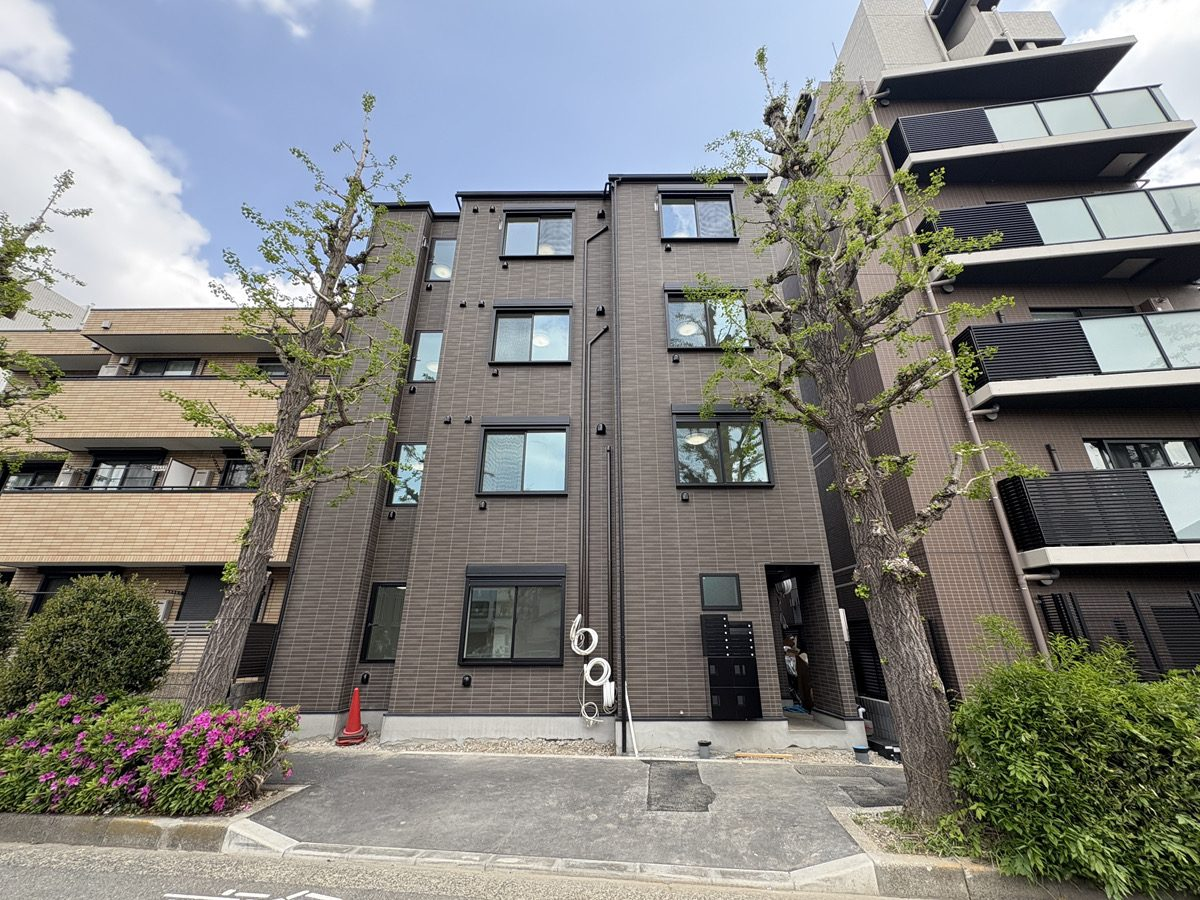
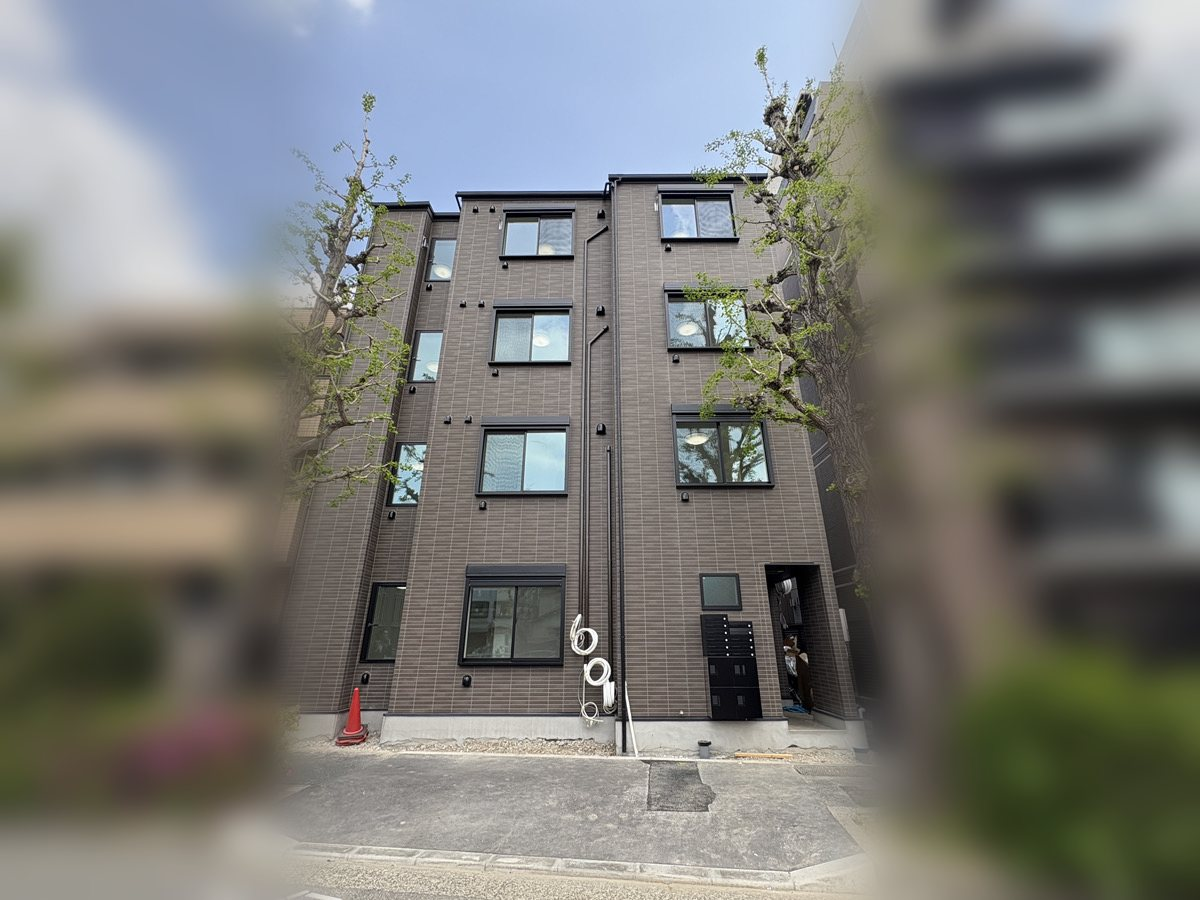
steel: ヒーロー画像を調整(PCは中央以外をぼかし、SPは縦長写真に出し分けて縮尺を保って表示)

diff --git a/steel.html b/steel.html
@@ -87,6 +87,7 @@ header{
 }
 .hero-bg{position:absolute;inset:0}
 .hero-bg img{width:100%;height:100%;object-fit:cover;object-position:center 30%}
+.hero-bg picture{display:contents}
 .hero-bg::after{
   content:'';position:absolute;inset:0;
   background:
@@ -196,6 +197,9 @@ header{
 }
 .scroll-hint::after{content:'';display:block;width:1px;height:40px;background:rgba(255,255,255,.25)}
 @keyframes sh{from{opacity:.35}to{opacity:.7}}
+
+/* hero (SP): 画像を縮尺を保って上部に表示し、テキストを下に続ける */
+@media(max-width:768px){.hero{background:#081c0a;min-height:auto}.hero-bg{bottom:auto;height:118vw}.hero-bg img{object-position:center top}.hero-bg::after{background:linear-gradient(to bottom,rgba(8,28,10,.2) 0%,rgba(8,28,10,0) 35%,rgba(8,28,10,.55) 70%,#081c0a 100%)}.hero-body{padding-top:66vw}}
 
 /* ===== SECTION BASE ===== */
 section{padding:90px 0}
@@ -641,7 +645,7 @@ height="0" width="0" style="display:none;visibility:hidden"></iframe></noscript>
 ===================== -->
 <section class="hero">
   <div class="hero-bg">
-    <img src="images/steel_hero.jpg" alt="Original Estate 施工物件（鉄骨造4階建）"/>
+    <picture><source media="(max-width:768px)" srcset="images/steel_hero_sp.jpg"/><img src="images/steel_hero.jpg" alt="Original Estate 施工物件（鉄骨造4階建）"/></picture>
   </div>
   <div class="wrap-wide hero-body">
     <div class="hero-eyebrow">Apartment for Investment — Original Estate</div>
